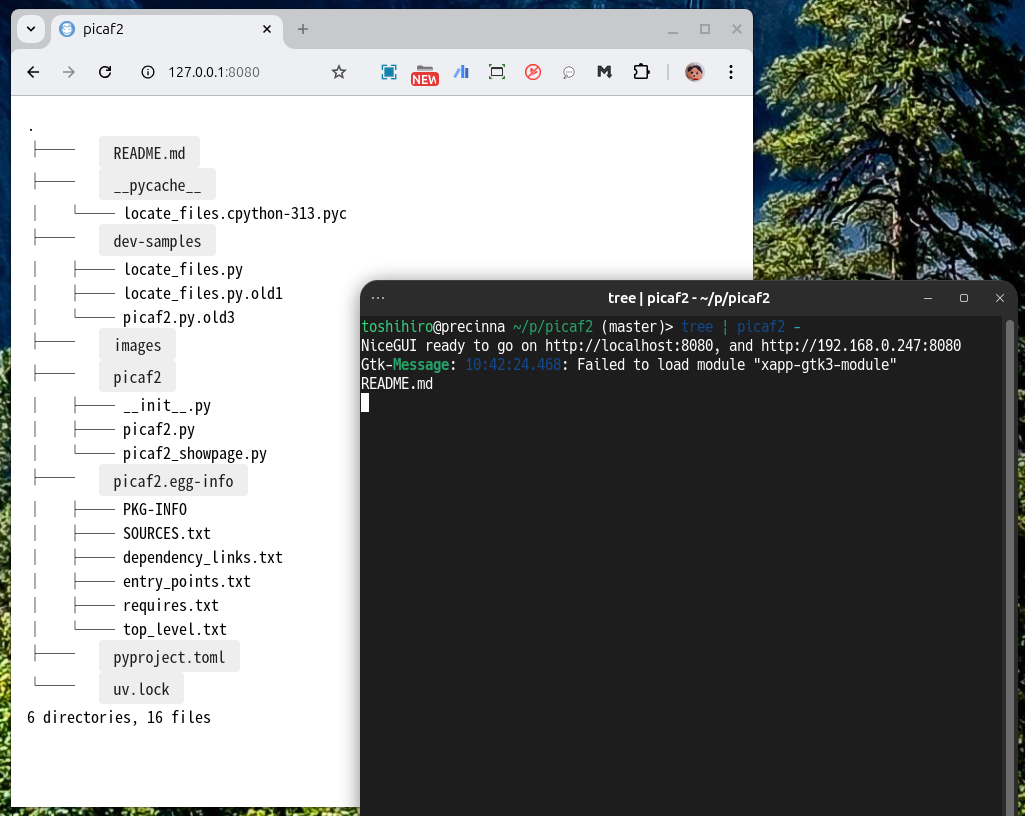
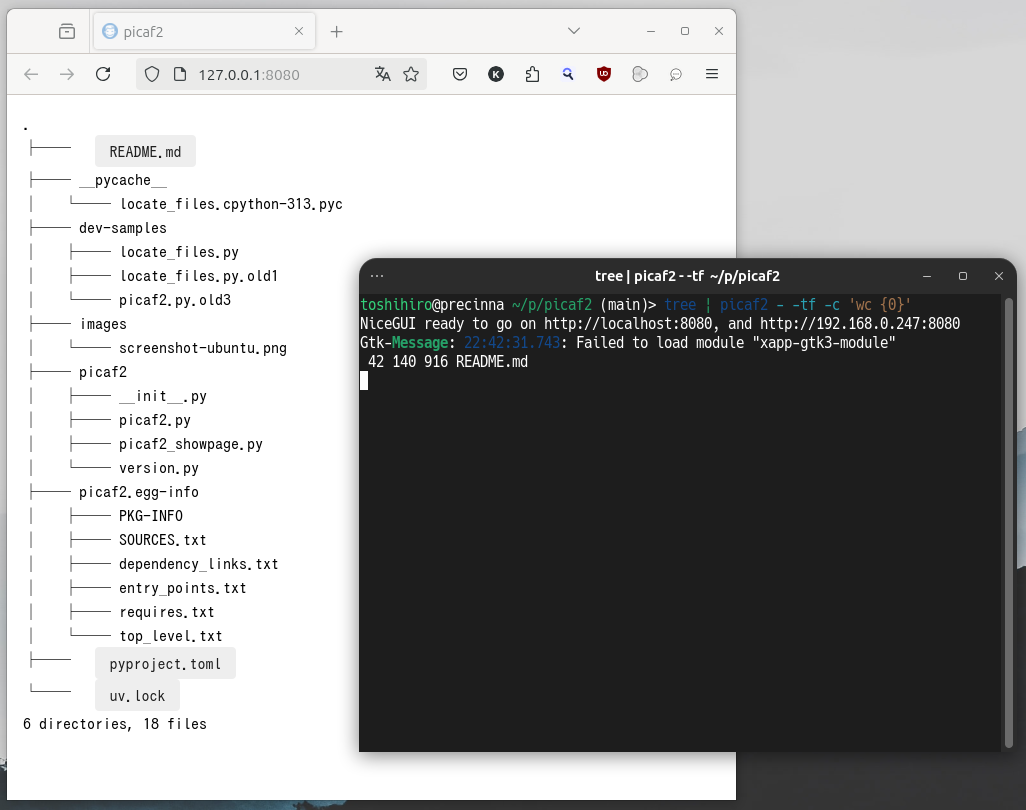
docs: update screenshot

Changed region(s): [[0.0, 0.0, 1.0, 1.0]]

diff --git a/README.md b/README.md
@@ -32,7 +32,7 @@ By default, when a file name is clicked, print the filename. With the option `-c
 **Ubuntu 24.04**
 
 ```sh
-tree | picaf2 -
+tree | picaf2 - -tf -c 'wc {0}'
 ```
 
 ![](./images/screenshot-ubuntu.png)
